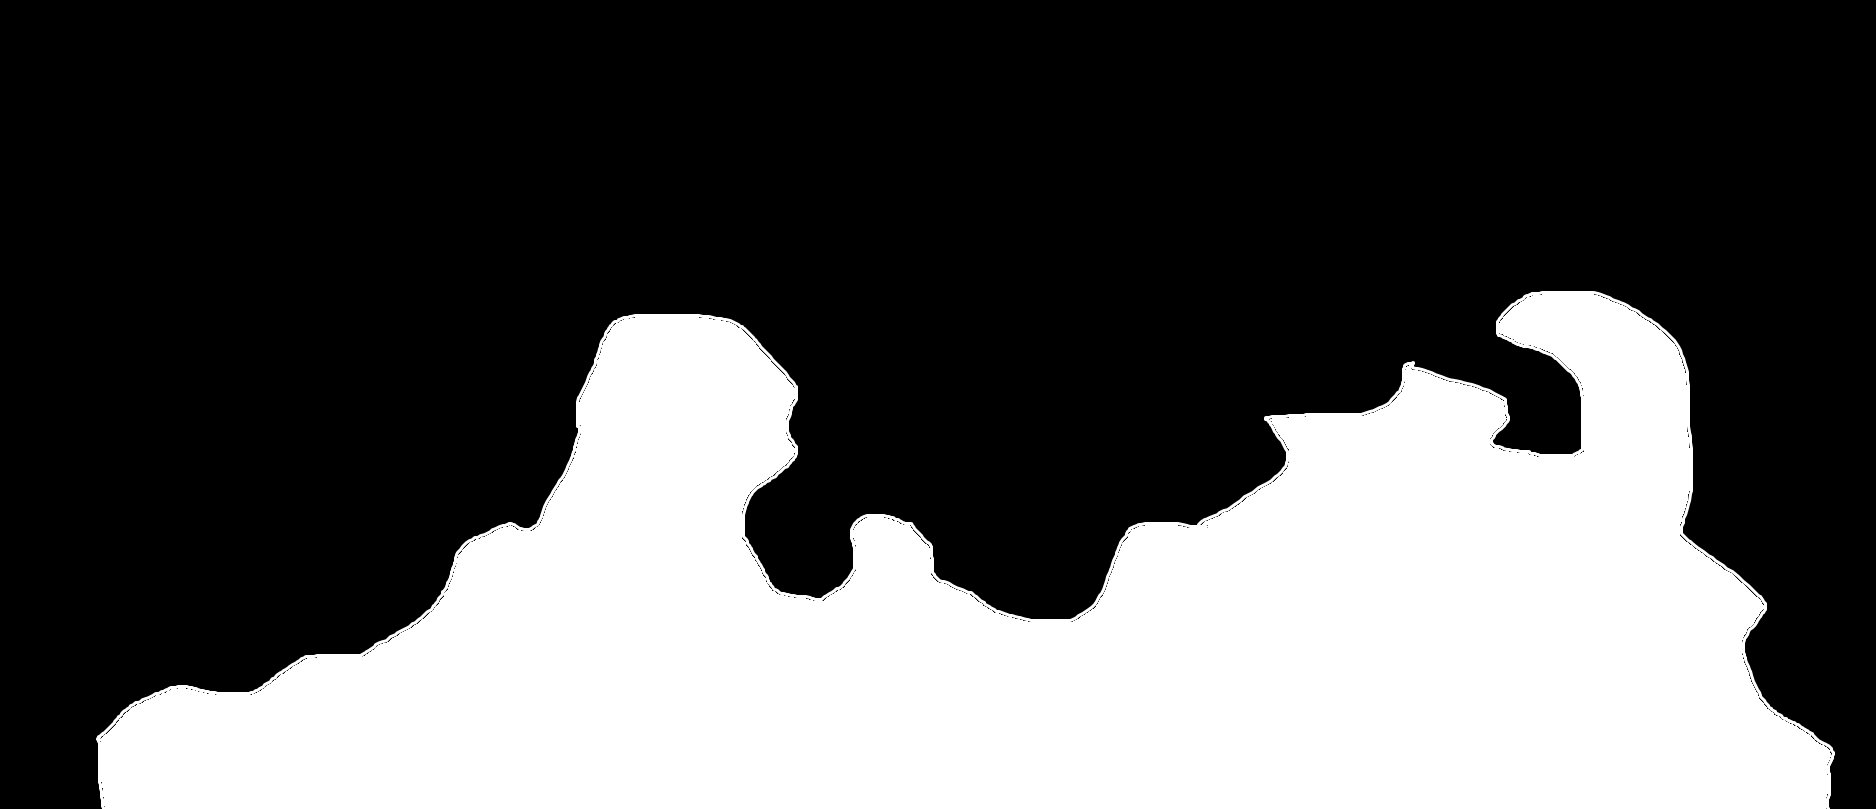
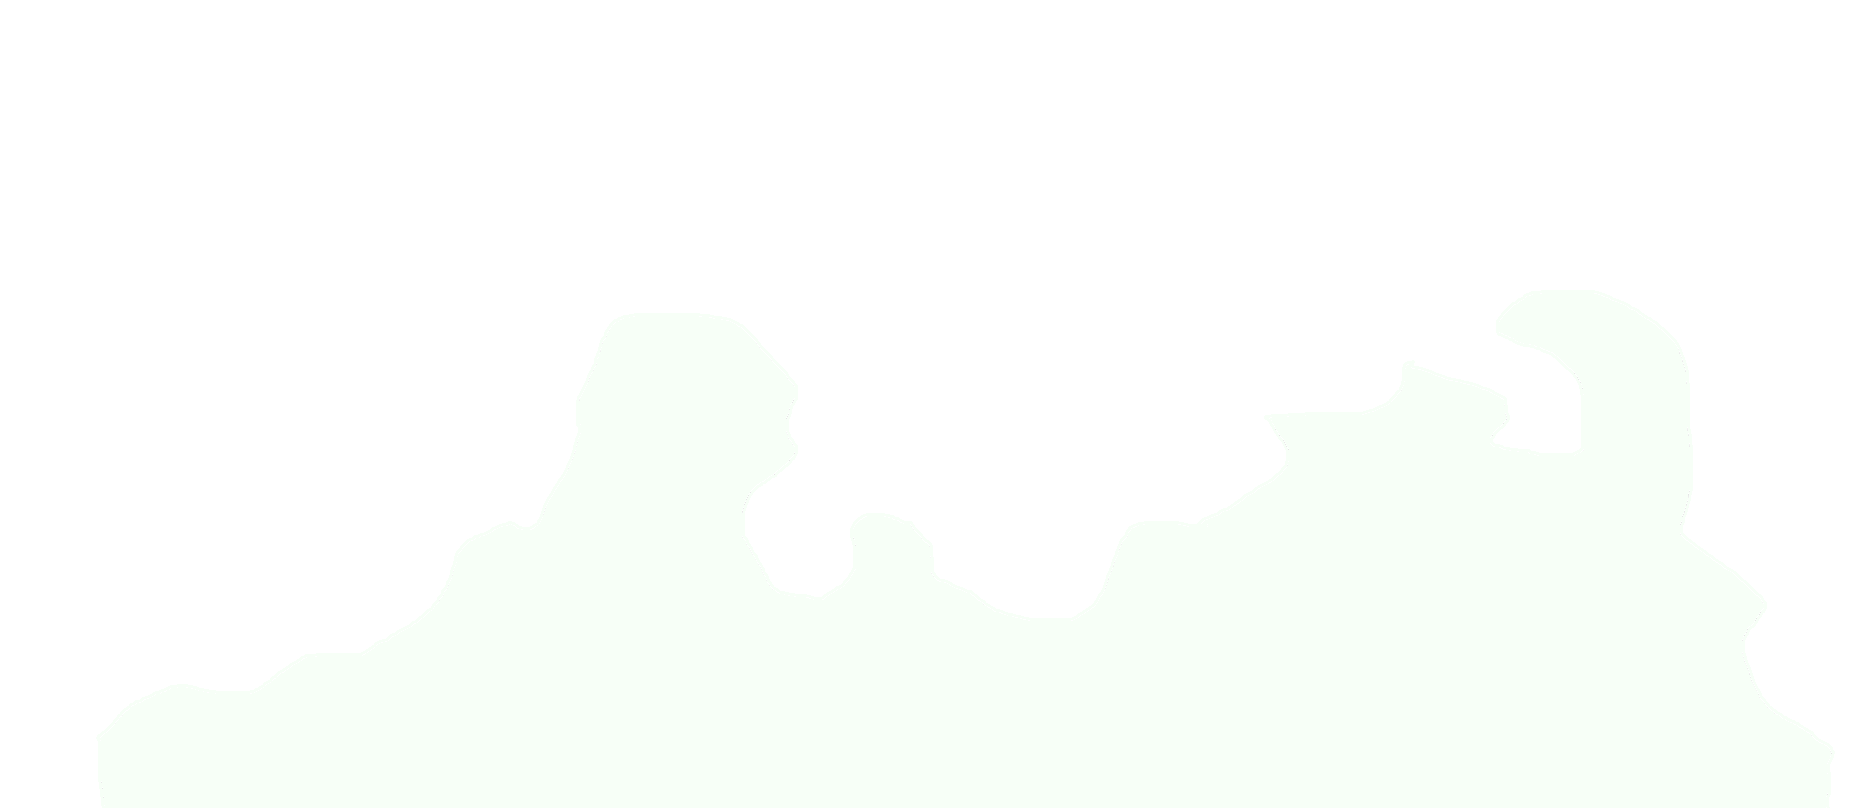
Alvöru bakgrunnur
Background.jpg er komið inn (hægt að breyta úr ketta ;)). Var fixað með
einhverju skemmtilegu css.

diff --git a/Scripts/ASTEROIDS.js b/Scripts/ASTEROIDS.js
@@ -168,7 +168,8 @@ function requestPreloads() {
         smg: "img/weapons/smg.png",
         shotgun: "img/weapons/shotgun.png",
         rocketlauncher:"img/weapons/rocketlauncher.png",
-        rocket:"img/weapons/rocket.png"
+        rocket:"img/weapons/rocket.png",
+        backgroundimage: "img/background.jpg"
     };
     imagesPreload(requiredImages, g_images, preloadDone);
 }
@@ -192,6 +193,7 @@ function preloadDone() {
     g_sprites.shotgun = new Sprite(g_images.shotgun);
     g_sprites.rocketlauncher = new Sprite(g_images.rocketlauncher);
     g_sprites.rocket = new Sprite(g_images.rocket);
+    g_sprites.backgroundimage = new Sprite(g_images.backgroundimage);
 	g_sprites.aim.scale = 0.25;
 	//g_sprites.explosion = new Sprite(g_images.explosion);
 	

diff --git a/Scripts/Landscape.js b/Scripts/Landscape.js
@@ -77,7 +77,7 @@ Landscape.prototype.init = function(ctx, canvas) {
 Landscape.prototype.pixelMap;
 
 Landscape.prototype.buildPixelMap = function( ctx ) {
-	return ctx.getImageData(0,0,1876,809);
+	return ctx.getImageData(0,0,this.width,this.height);
     };
 
 Landscape.prototype.pixelHitTest = function(target ) {
@@ -218,5 +218,5 @@ Landscape.prototype.drawPixAt = function(x,y){
 	this.pixelMap.data[this.findIndex(x,y)] = 0;
         this.pixelMap.data[this.findIndex(x,y)+1] = 0;
         this.pixelMap.data[this.findIndex(x,y)+2]=0;
-        this.pixelMap.data[this.findIndex(x,y)+3] = 255;
+        this.pixelMap.data[this.findIndex(x,y)+3] = 0;
 };

diff --git a/index.html b/index.html
@@ -2,9 +2,13 @@
 	<head>
 		<meta charset="UTF-8">
 		<title>Worms</title>
+		<link type="text/css" rel="stylesheet" href="stylesheet.css">
+
 	</head>
 	<body>
+		<img src="img/background.jpg" alt="Cat">
 		<canvas id="myCanvas" width="1876" height = "809" style ="border:1px solid black">
+		
 		Sorry, your browser doesn't suppert the HTML5 canvas tag
 		</canvas> 
 		<script src="Scripts/globals.js"></script>

diff --git a/Scripts/Rocket.js b/Scripts/Rocket.js
@@ -56,6 +56,9 @@ Rocket.prototype.update = function (du) {
 		this.width = g_images.rocket.width; //define the width of rocket prototype
 	}
 
+    if(this.cx > g_canvas.width || this.cx <0 || this.cy > g_canvas.height || this.cy<0)
+        return entityManager.KILL_ME_NOW;
+    
 	if(entityManager._Landscape[0].pixelHitTest(this))
         {
 		entityManager.generateDeath({

diff --git a/Scripts/entityManager.js b/Scripts/entityManager.js
@@ -239,6 +239,7 @@ render: function(ctx) {
 
     var debugX = 10, debugY = 100;
 
+
     for (var c = 0; c < this._categories.length; ++c) {
 
         var aCategory = this._categories[c];

diff --git a/stylesheet.css b/stylesheet.css
@@ -1,0 +1,5 @@
+canvas, img {
+    position: absolute;
+    top: 0;
+    left: 0;
+}
